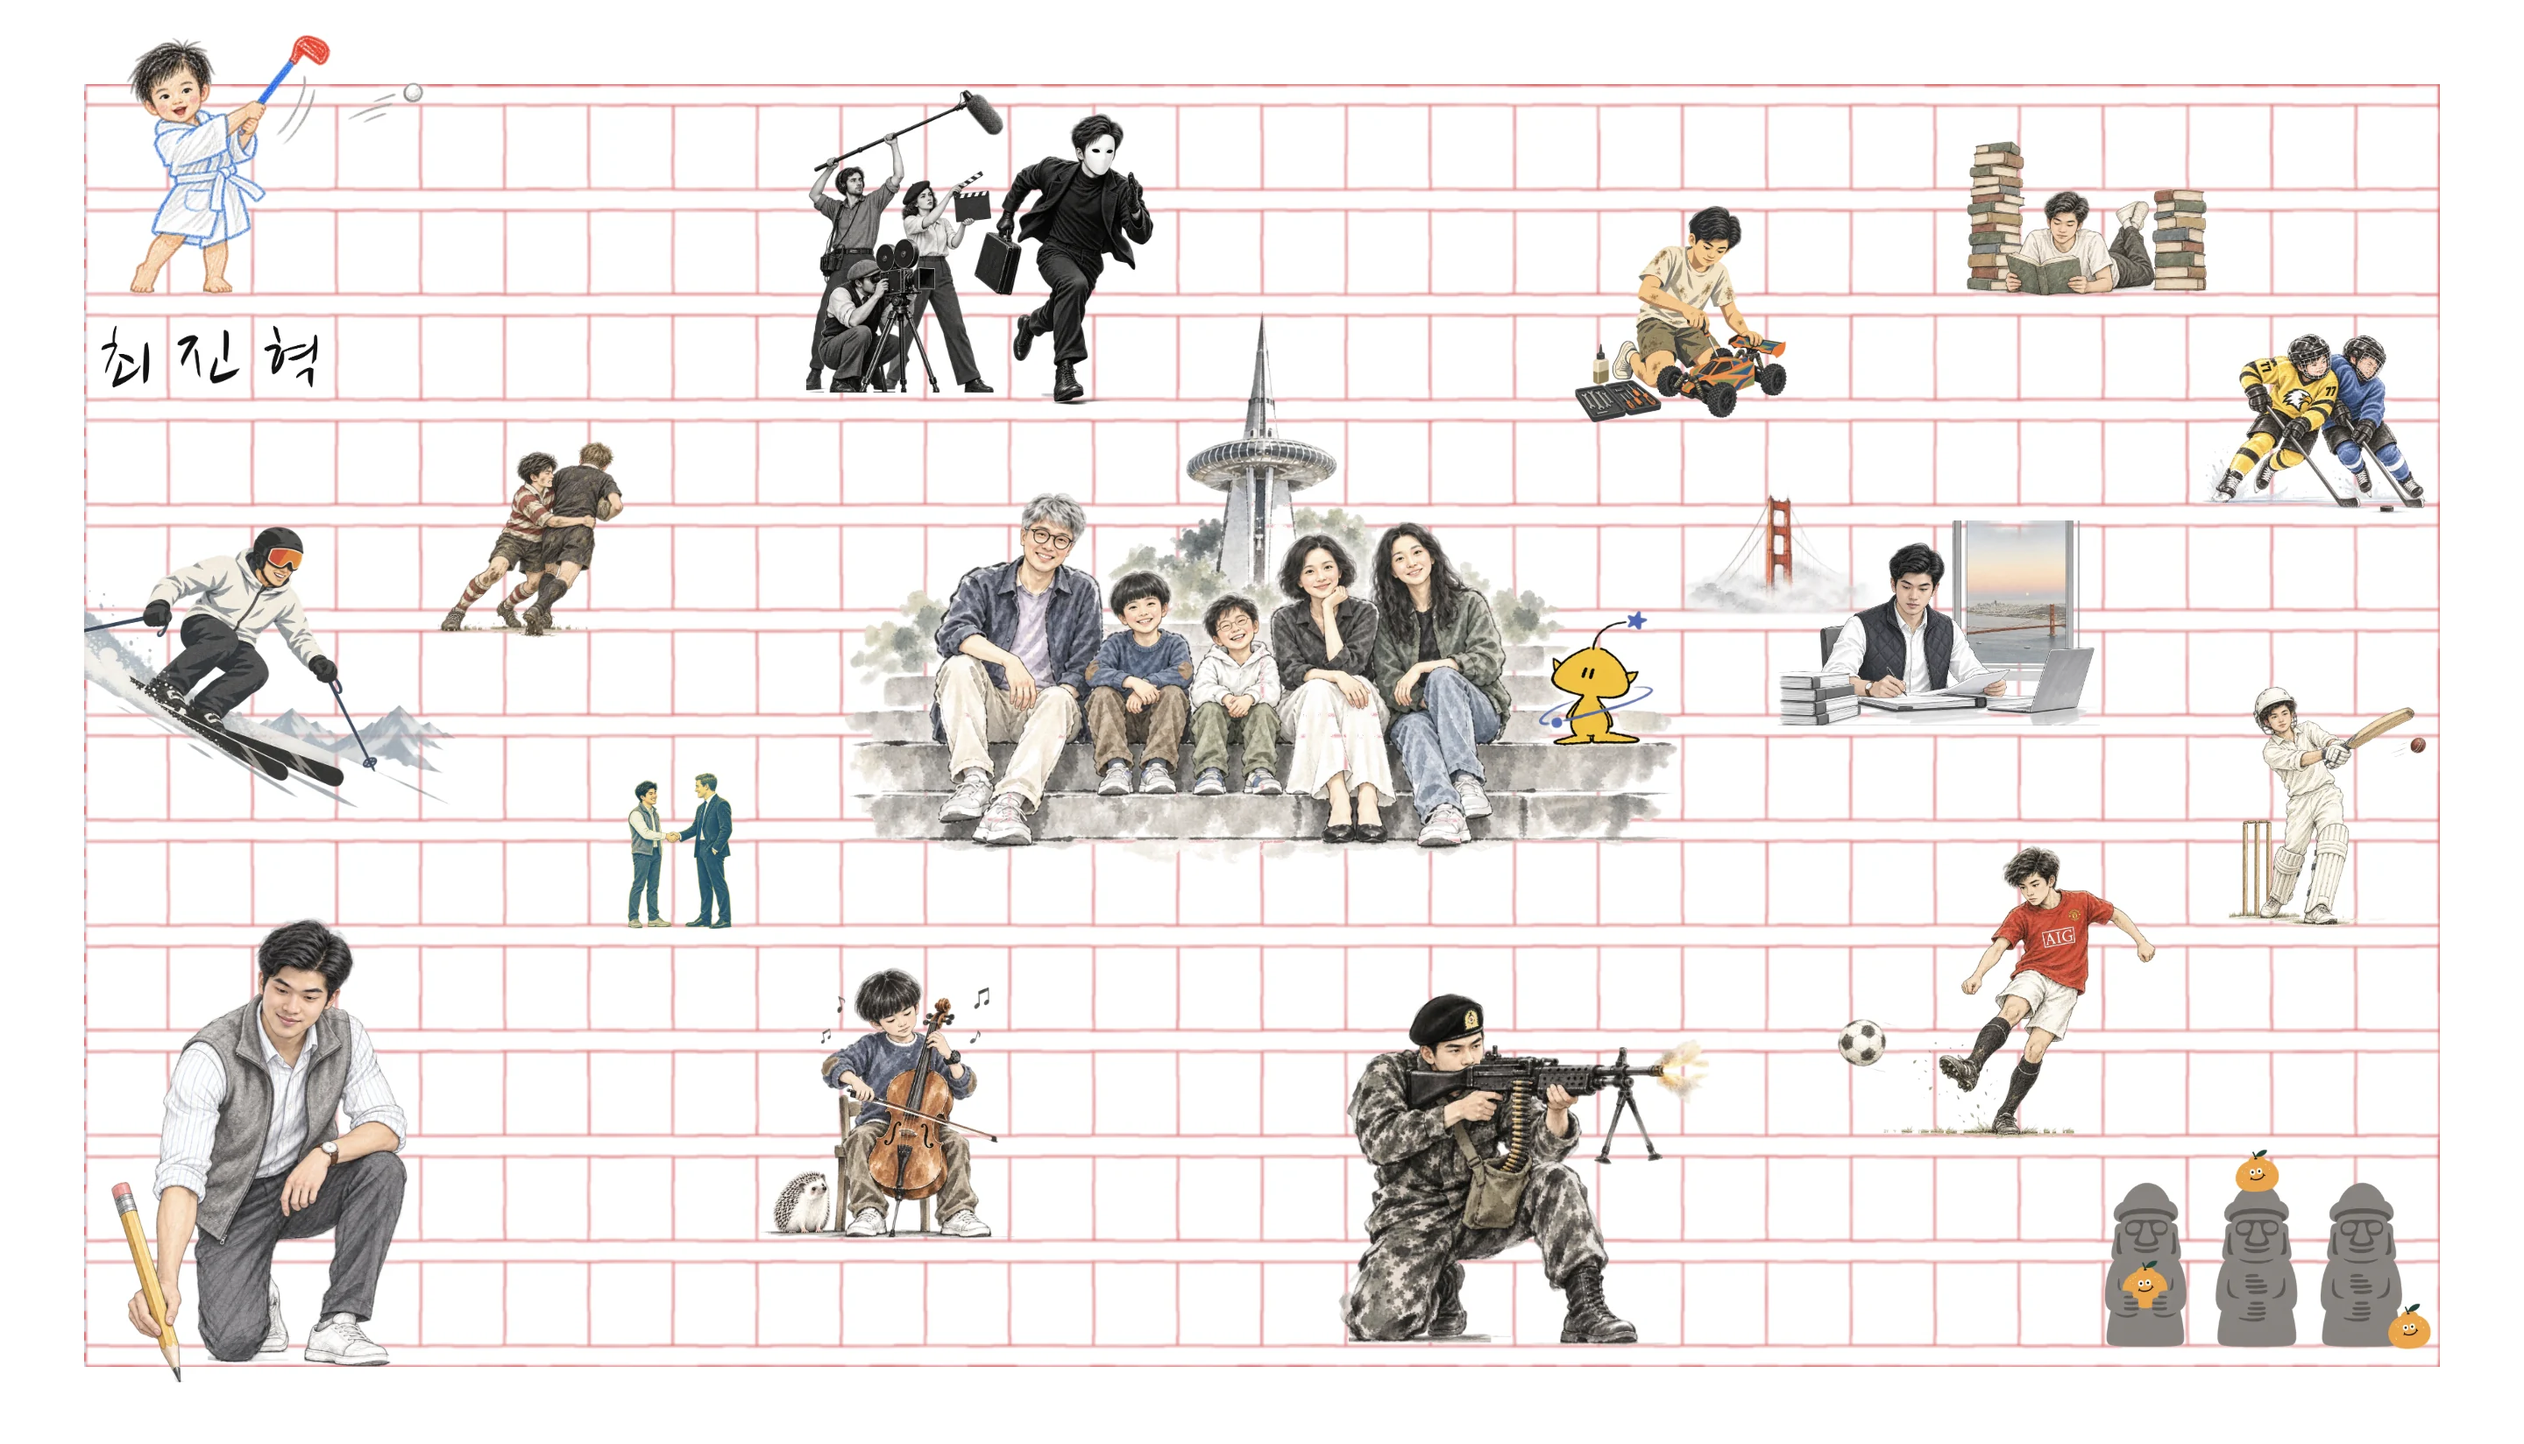
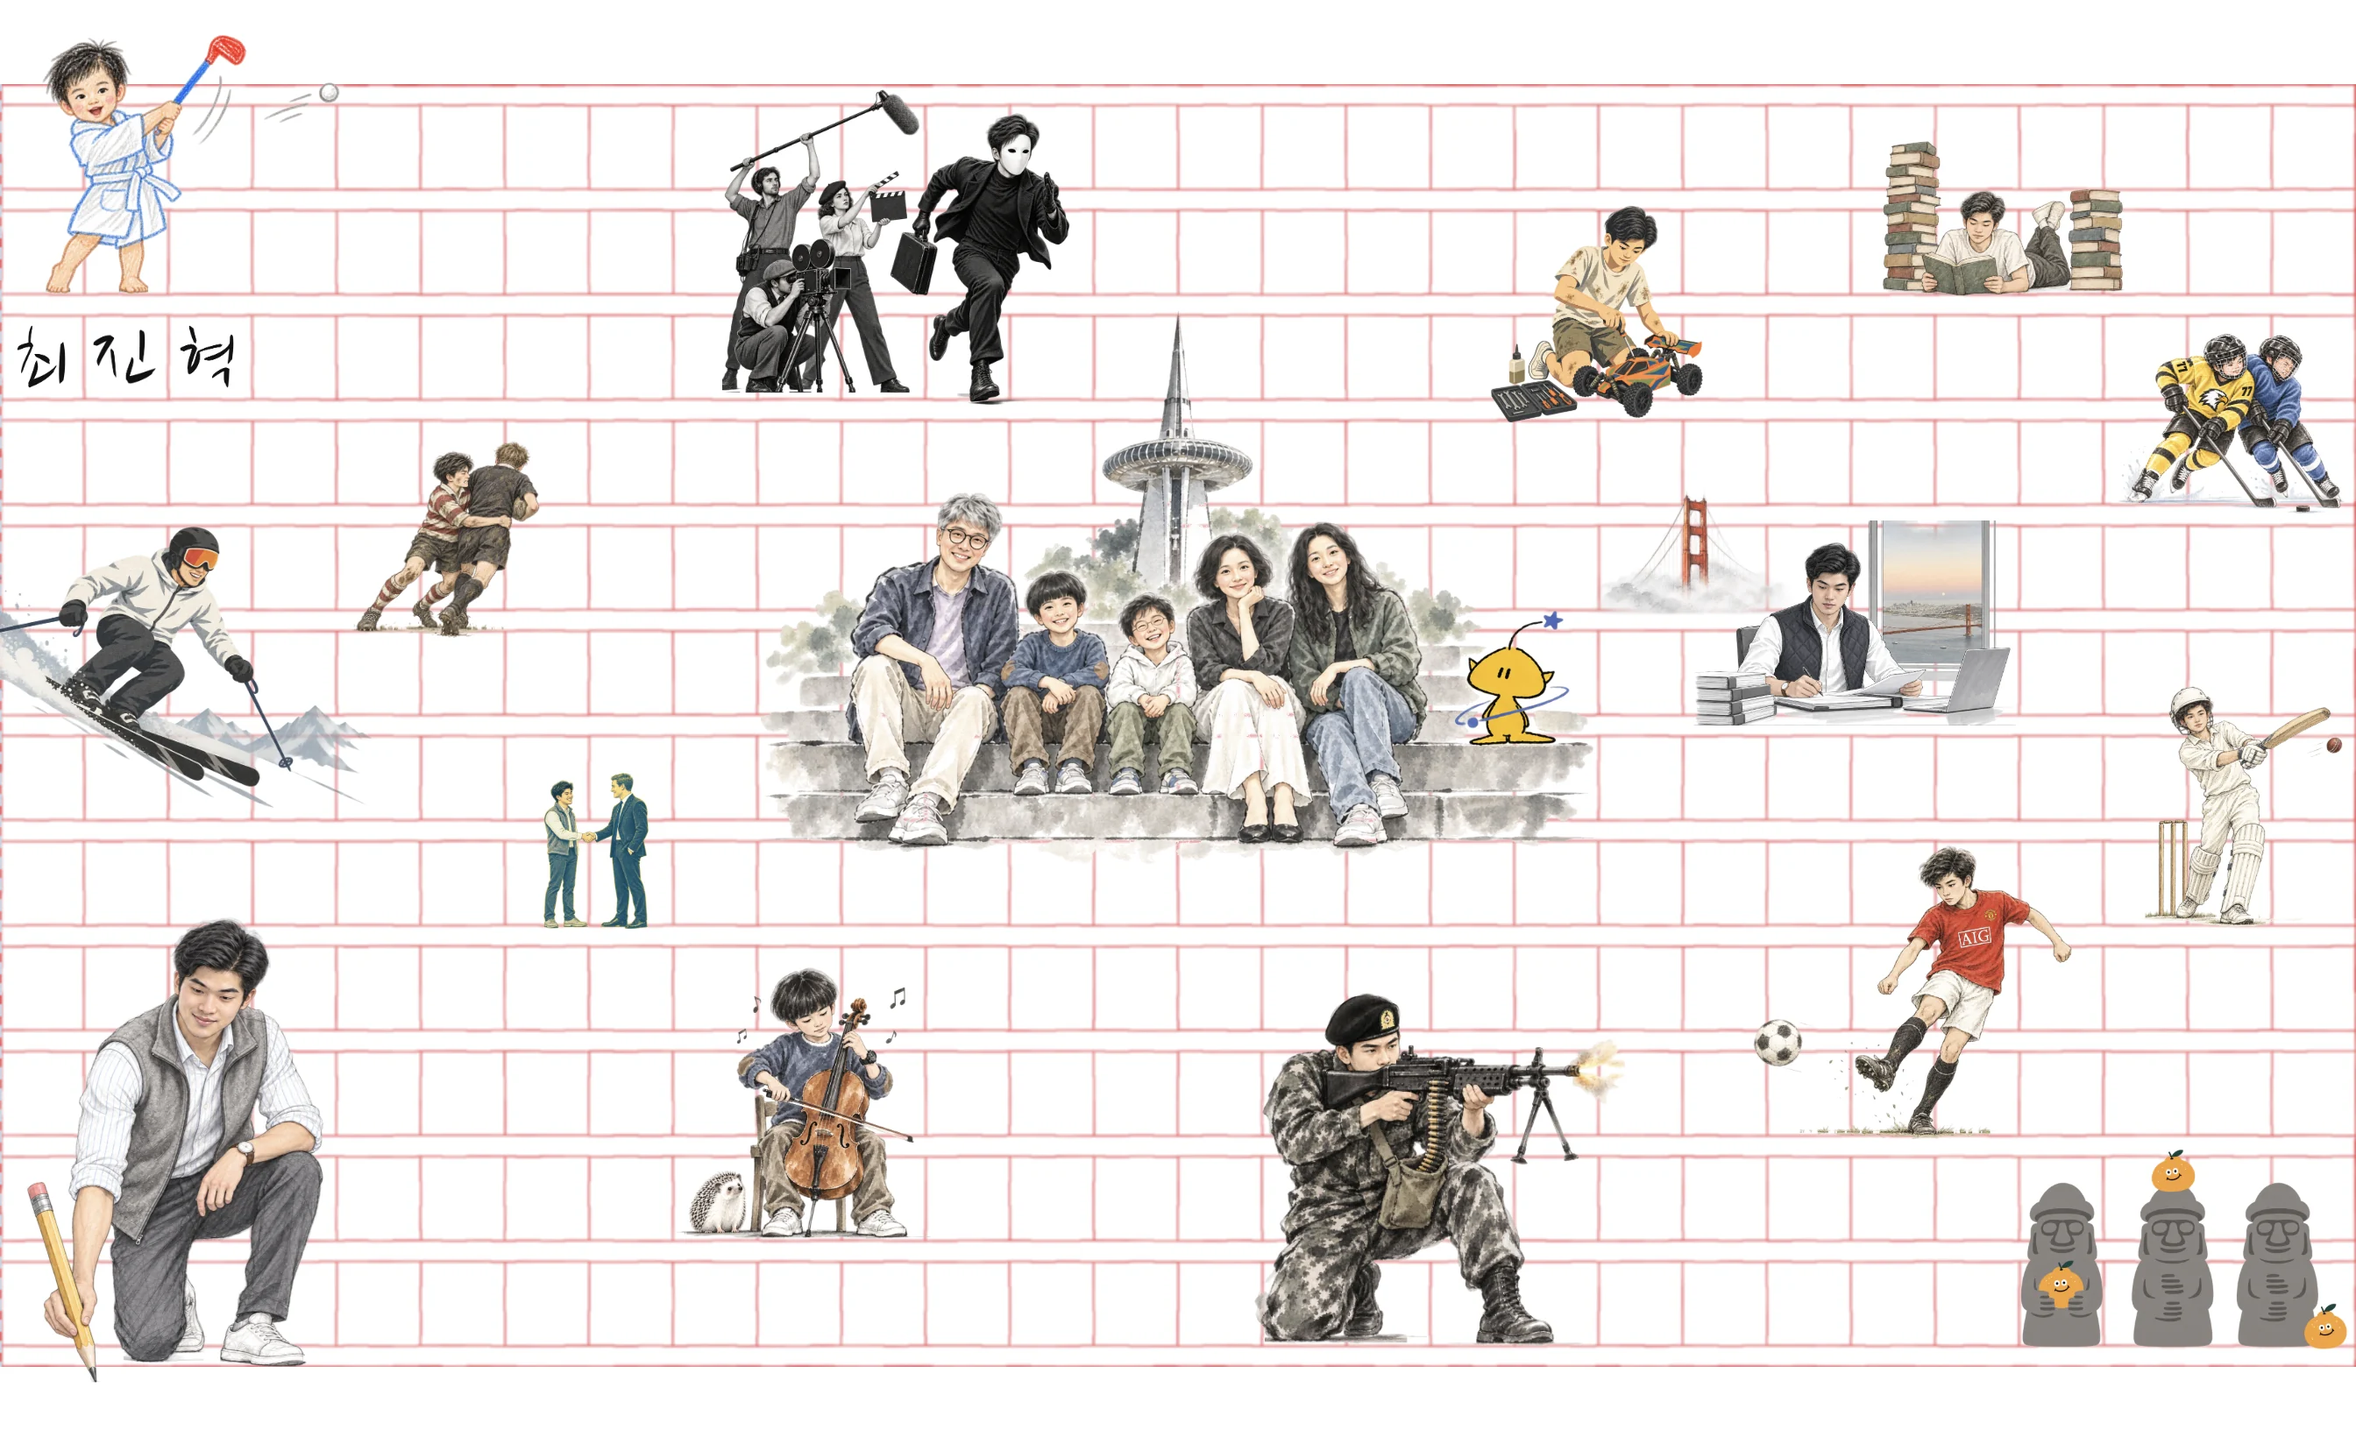
Realign the hero, and put light before dark on the toggle
The hero was baking the page gutters into the exported image, so its
internal margins scaled with the image while the page's gutters stayed
fixed in px. The two only agreed at exactly 1440, and at every other
width the grid was too wide and sat left of the wordmark.

The image is back to the grid's own width, so it maps 1:1 onto the
content column — grid left edge = wordmark, right edge = theme toggle, at
every window width (measured 700 to 1600). The white sheet around it is
now a CSS background on .hero that bleeds into both gutters, which is
also easier to retune than a re-export.

Toggle order flipped to light then dark, here and on all thirteen Paper
artboards.

diff --git a/src/styles/global.css b/src/styles/global.css
@@ -14,6 +14,7 @@
   --toggle-on: #f0f0f0;  /* filled cell behind the active theme icon */
   --toggle-off: #9a9a9a; /* the inactive theme icon */
   --code-bg: #f6f6f6;
+  --sheet: #ffffff;      /* the paper the hero grid sits on, white in both themes */
 
   --page: 1440px;        /* artboard width */
   --gutter: 48px;        /* artboard side padding */
@@ -197,17 +198,27 @@ a {
 /* ---------------------------------------------------------------------------
    Hero
    --------------------------------------------------------------------------- */
-/* The export is a full 1440-wide page: a white sheet running gutter to
-   gutter with the grid on it, transparent everywhere else. That one image
-   serves both themes — in dark mode the sheet reads as lit paper on the
-   dark ground. The skier is cropped at the grid border; only the pencil
-   breaks out, into the 44px of bleed below, which the reduced .intro
-   padding accounts for. */
+/* The image is exactly the grid's own width, so the grid lines up with the
+   content column — and therefore with the wordmark and the theme toggle —
+   at every window width. Don't bake the page gutters into the export: the
+   image's internal margins would scale with the image while the page's
+   gutters stay fixed, and the two only agree at exactly 1440px.
+
+   The white sheet around the grid is drawn here instead, so it can bleed
+   into both gutters while the grid itself stays put. In dark mode that
+   sheet is what reads as lit paper on the dark ground.
+
+   The skier is cropped at the grid border; only the pencil breaks out,
+   into the 44px of bleed below the grid that the export carries and the
+   reduced .intro padding accounts for. */
 .hero {
   margin-inline: calc(var(--gutter) * -1);
+  padding-inline: var(--gutter);
+  background: var(--sheet);
 }
 
 .hero img {
+  display: block;
   width: 100%;
   height: auto;
 }
